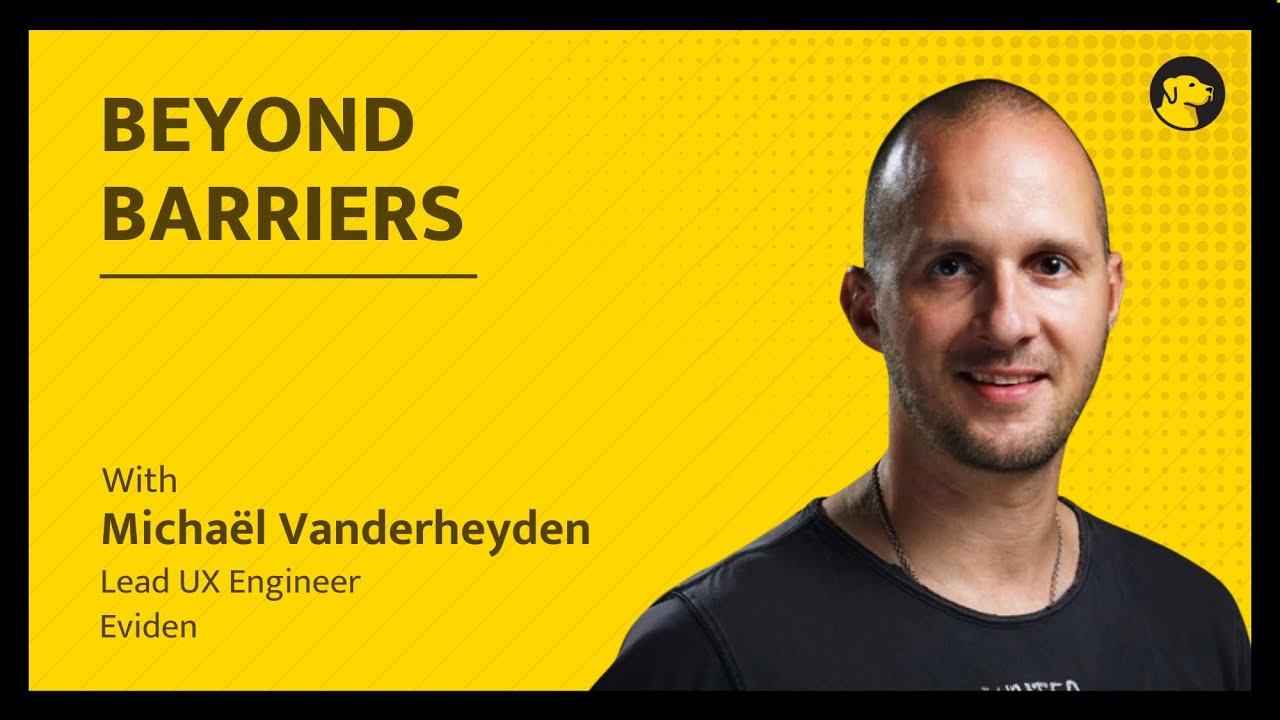
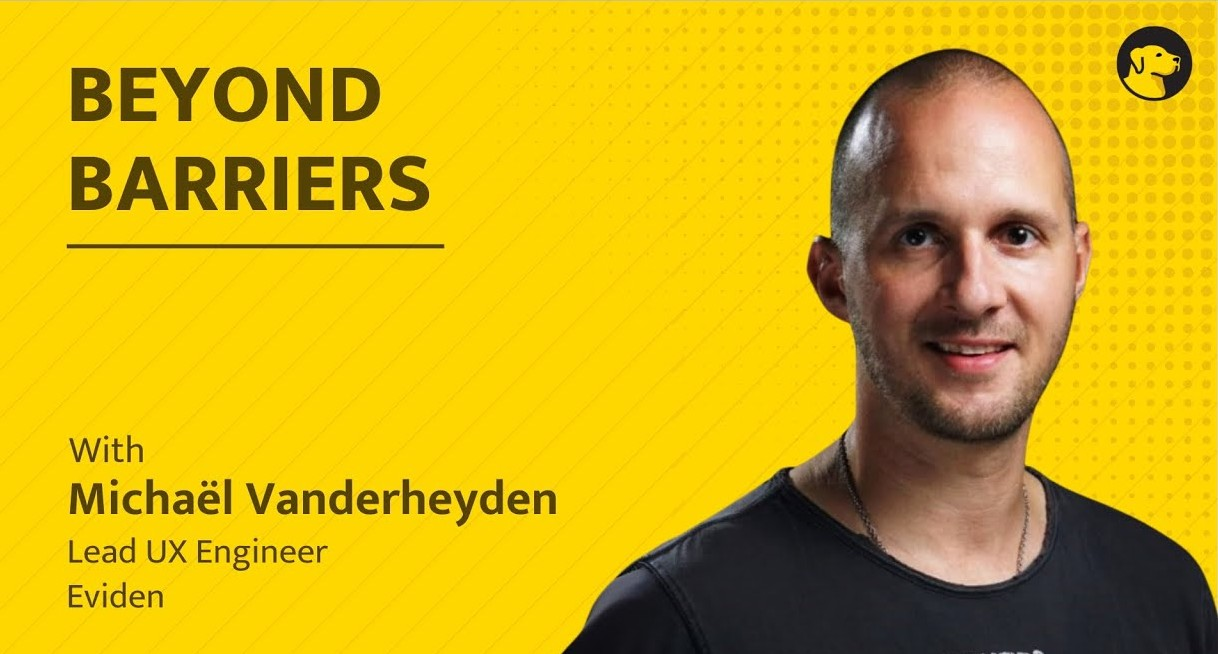
fix: update image sizing properties for better responsiveness

diff --git a/src/styles/pages/home.css b/src/styles/pages/home.css
@@ -41,8 +41,9 @@ body.home {
 		}
 		& img {
 			grid-area: image;
-			width: 100%;
-			height: 100%;
+			inline-size: 100%;
+			block-size: auto;
+			max-block-size: 100%;
 			object-fit: cover;
 			border-radius: 0.5rem;
 			view-transition-name: article-hero-image;
